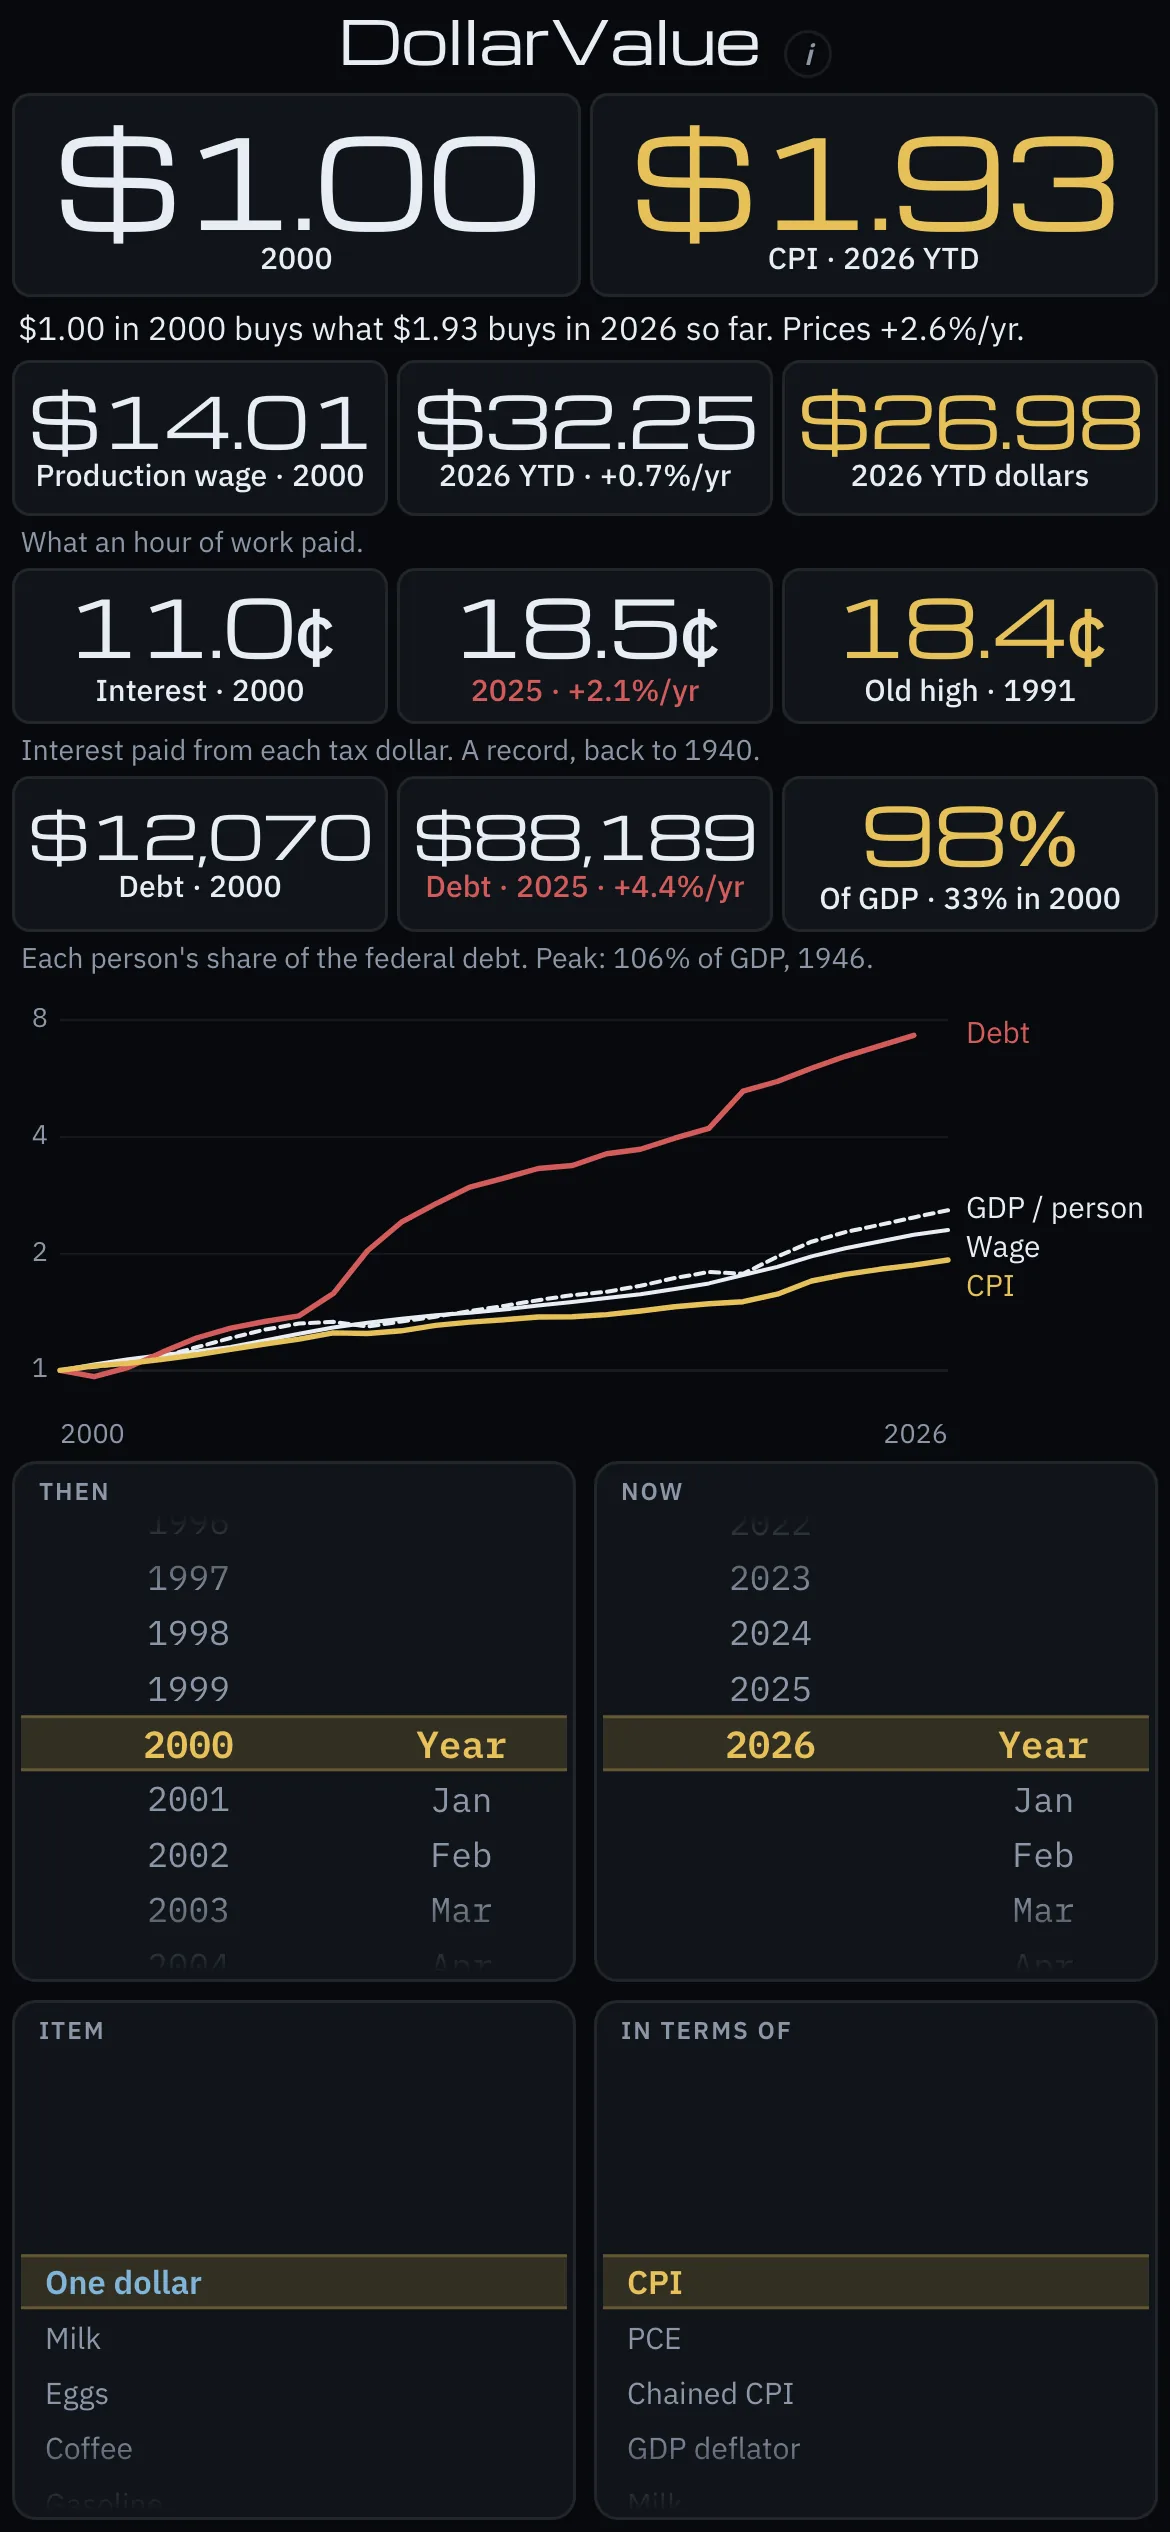
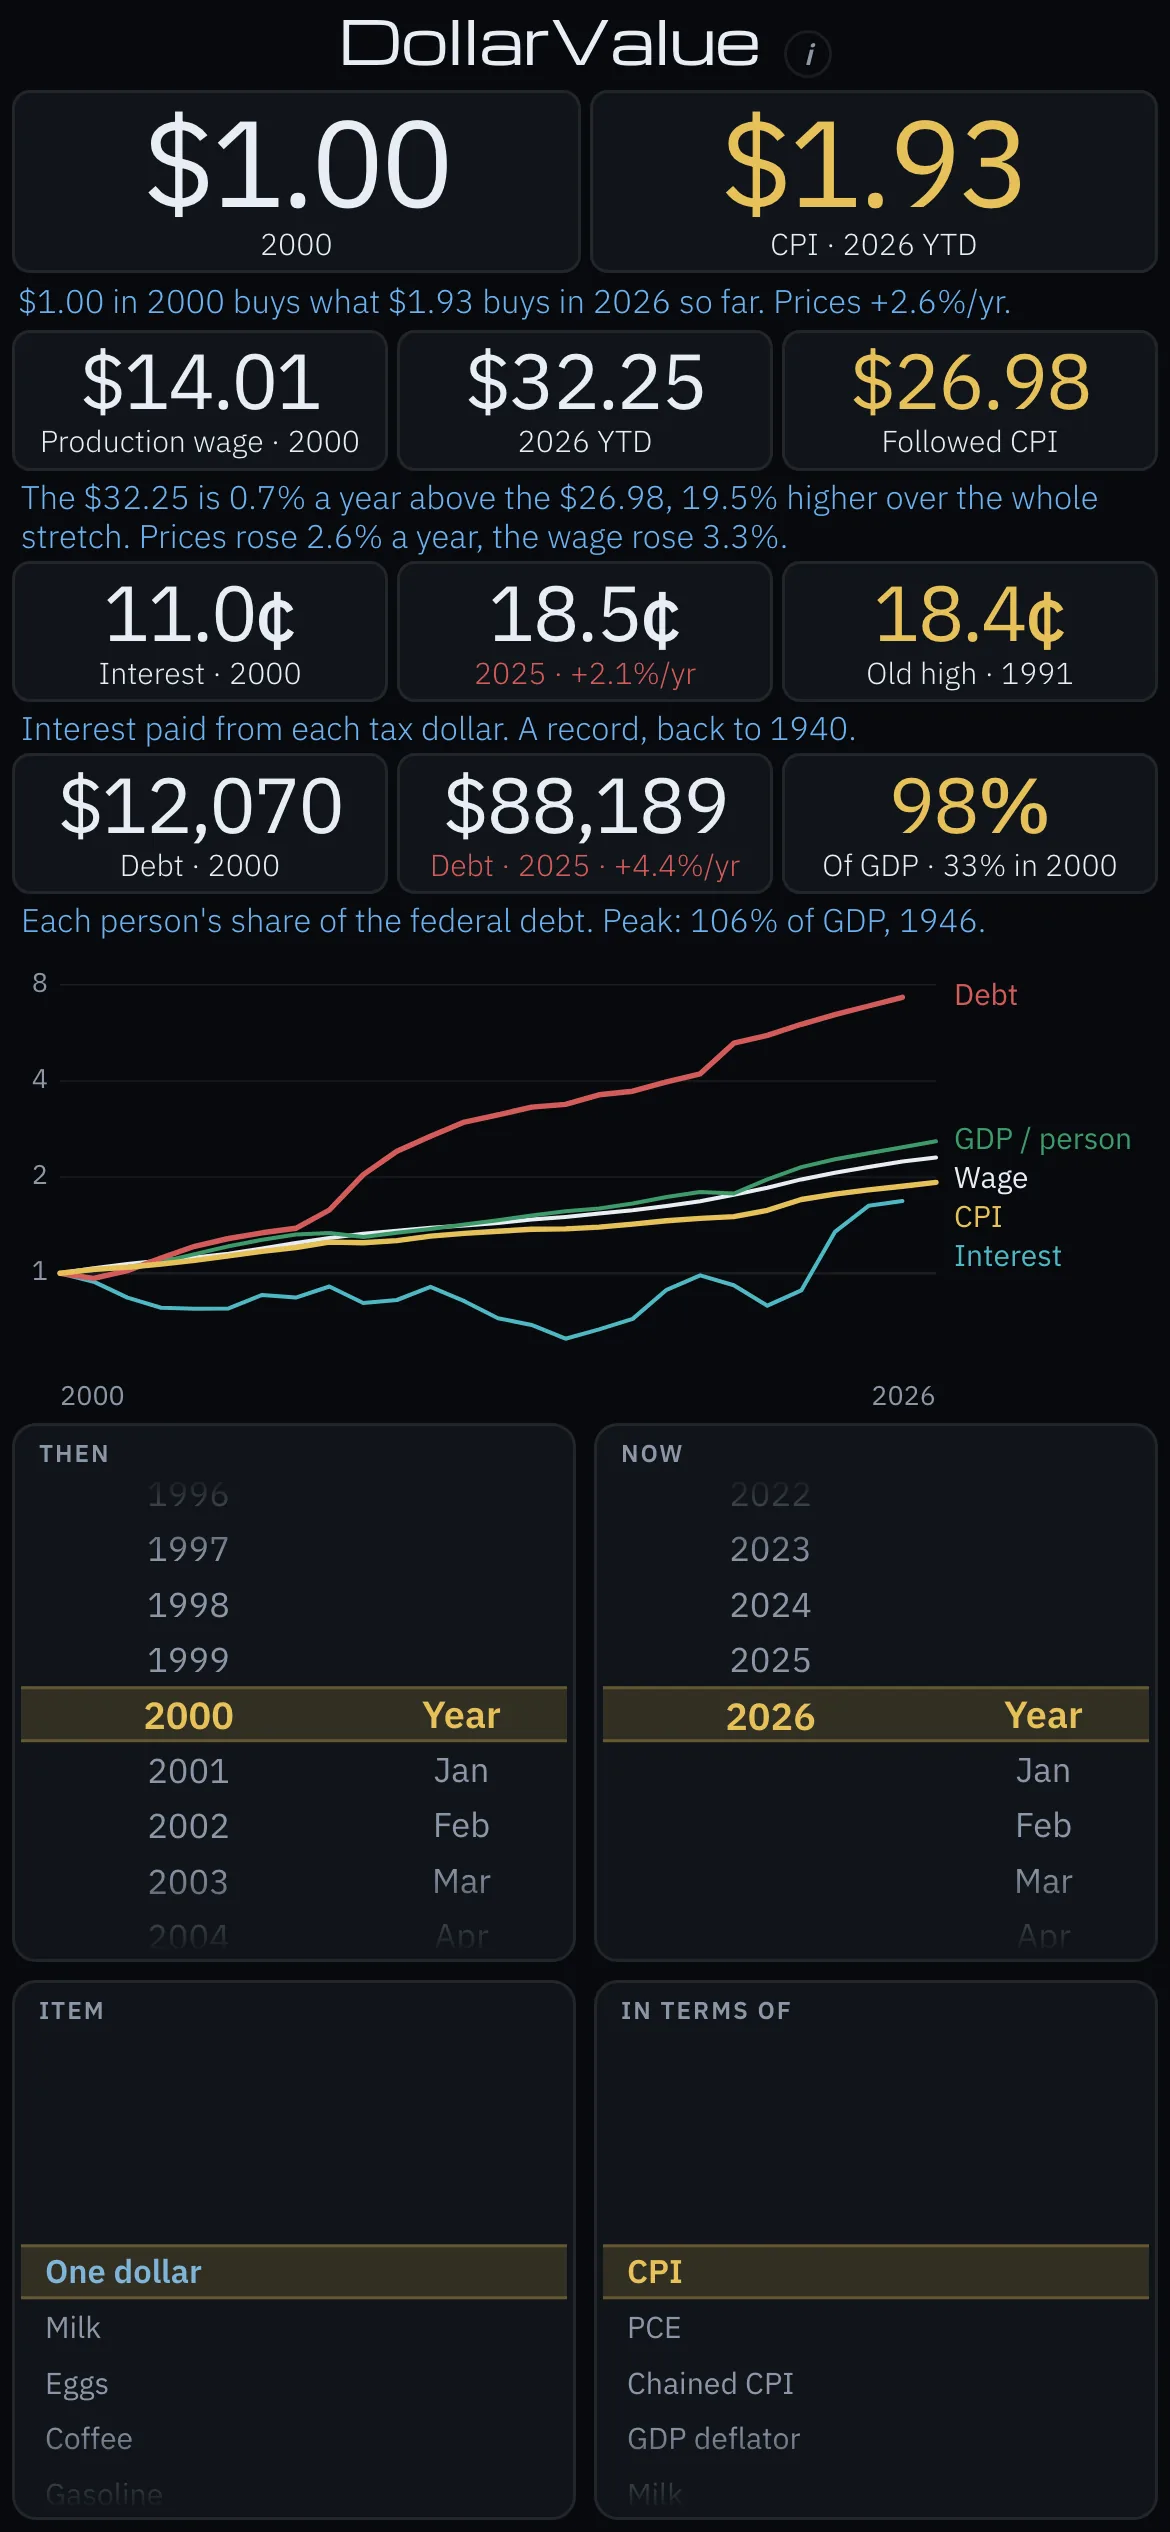
Refresh the DollarValue hub card for the Plex fiscal screen.

diff --git a/apps.js b/apps.js
@@ -6,7 +6,7 @@ export const APPS = [
     id: "dollarvalue-app",
     name: "DollarValue",
     href: "https://dollarvalue-app.vercel.app",
-    img: "images/ss-dollarvalue.webp?v=3",
+    img: "images/ss-dollarvalue.webp?v=4",
     imgW: 1170,
     imgH: 2532,
     hint: "Then vs now · wages, interest, debt vs GDP · not just CPI",
